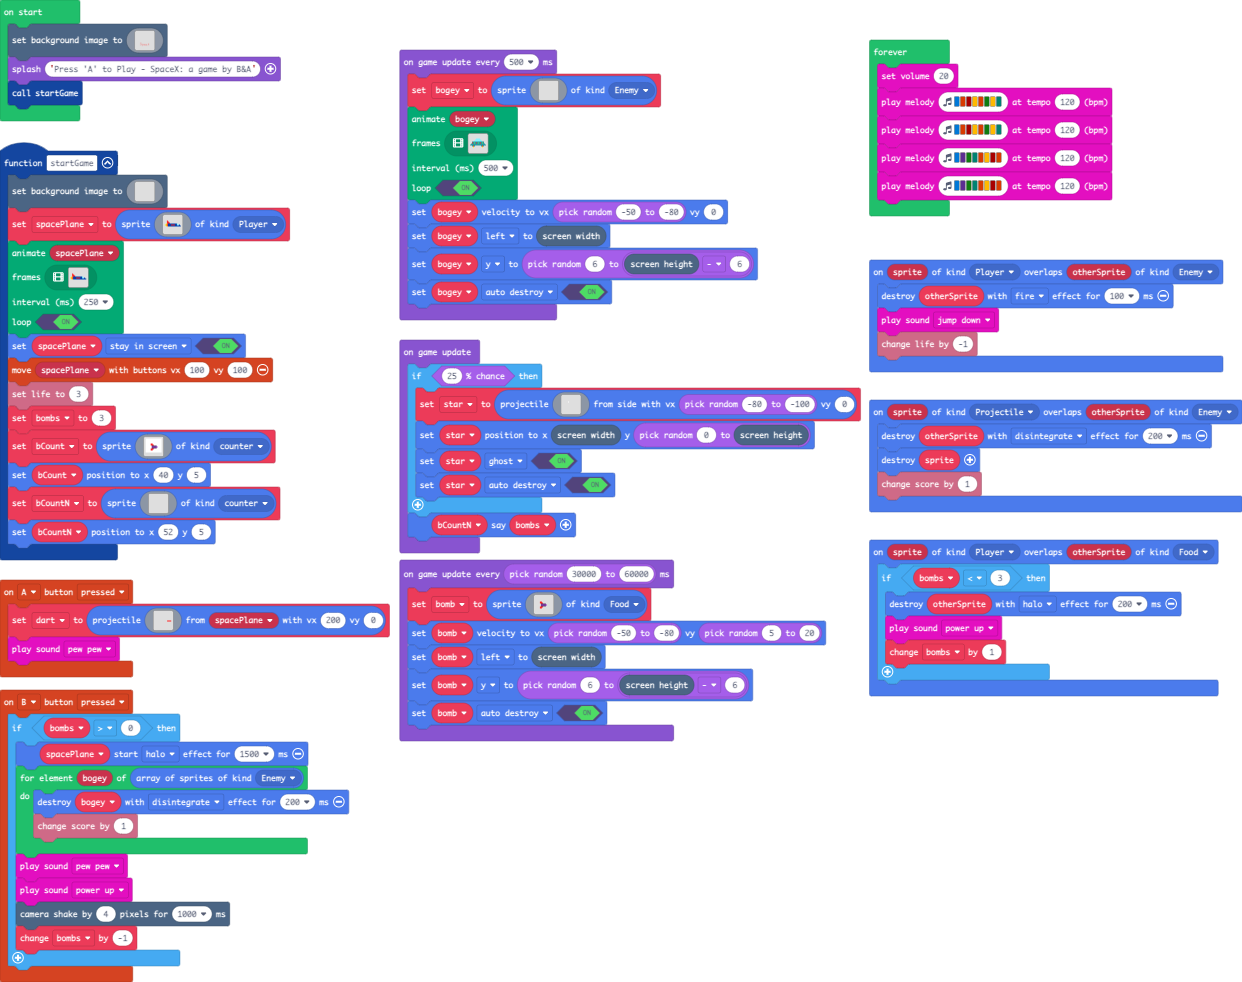
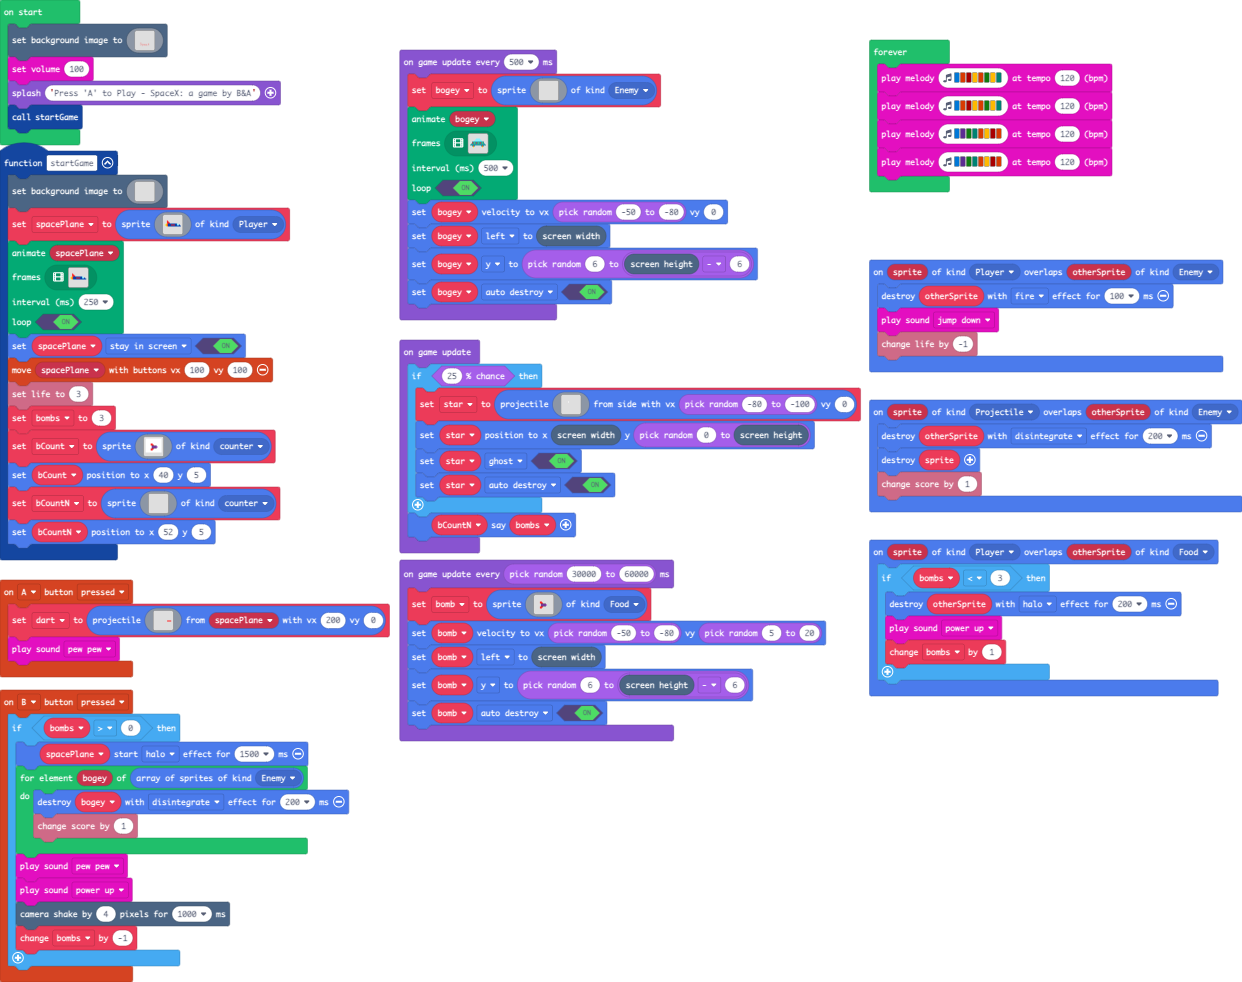
Update main.blocks, main.ts

Changed region(s): [[0.7037, 0.0611, 0.9179, 0.2444], [0.0, 0.0305, 0.2448, 0.1527]]

diff --git a/main.ts b/main.ts
@@ -377,6 +377,7 @@ scene.setBackgroundImage(img`
     ....................................................2...........................................................................................................
     ................................................................................................................................................................
     `)
+music.setVolume(100)
 game.splash("Press 'A' to Play - SpaceX: a game by B&A")
 startGame()
 game.onUpdate(function () {
@@ -396,7 +397,6 @@ game.onUpdateInterval(randint(30000, 60000), function () {
     bomb.setFlag(SpriteFlag.AutoDestroy, true)
 })
 forever(function () {
-    music.setVolume(20)
     music.playMelody("E B C5 A B G A F ", 120)
     music.playMelody("E B C5 A B G A F ", 120)
     music.playMelody("E D G F B A C5 B ", 120)
